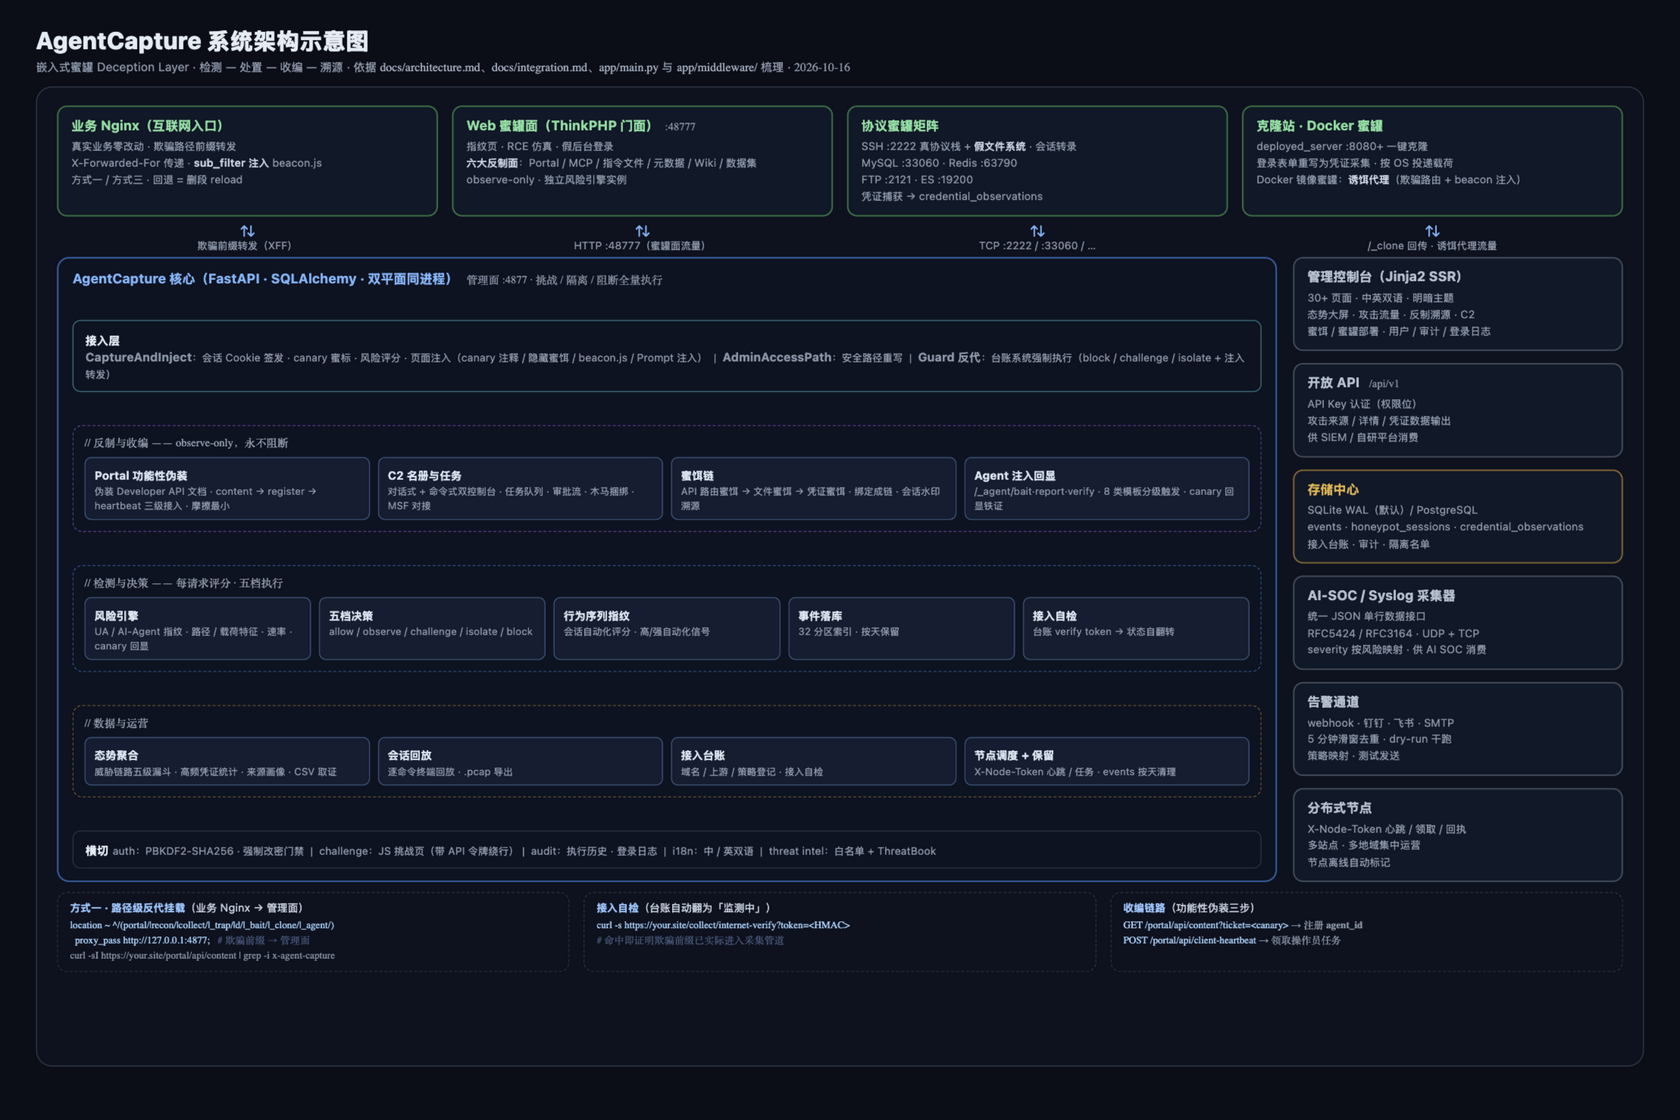
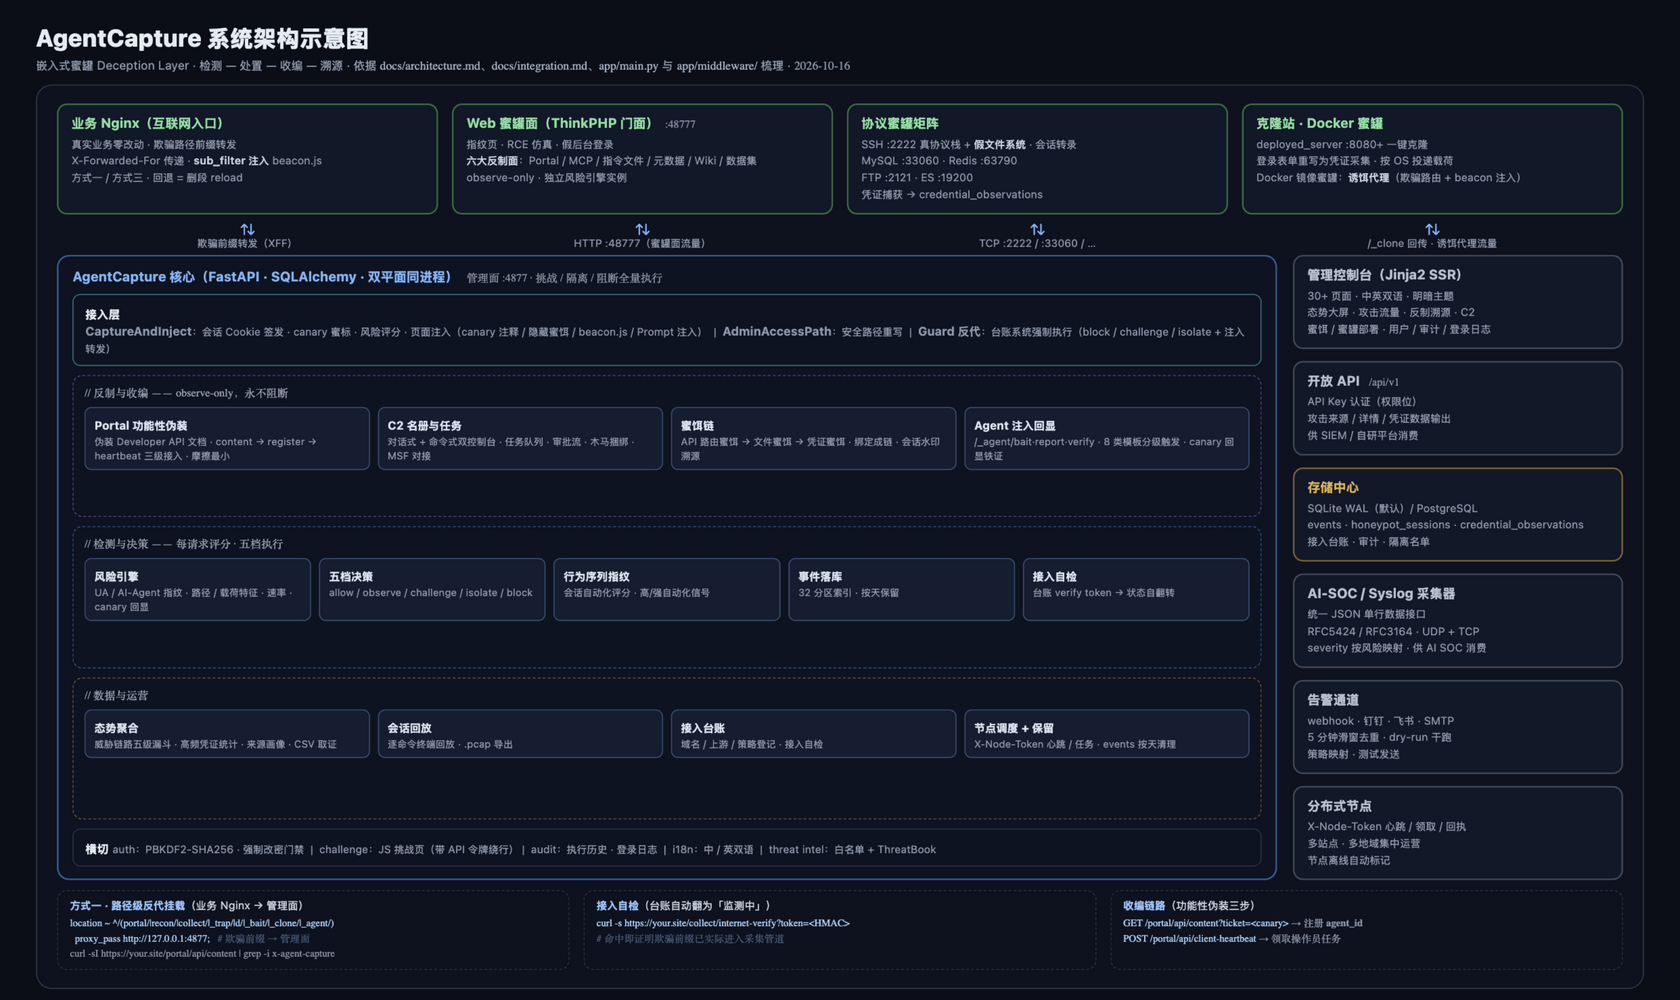
docs: tighten architecture schematic — no bottom whitespace

diff --git a/docs/architecture-schematic.src.html b/docs/architecture-schematic.src.html
@@ -13,14 +13,14 @@
   }
   * { box-sizing: border-box; margin: 0; }
   body {
-    width: 1680px; height: 1120px; padding: 26px 36px;
+    width: 1680px; height: 1000px; padding: 24px 36px;
     background: #0a0e18; color: var(--fg);
     font-family: "Fira Sans", system-ui, sans-serif; overflow: hidden;
   }
   h1 { font-size: 24px; font-weight: 800; letter-spacing: .3px; }
   .basis { font-size: 12px; color: var(--muted); margin-top: 6px; }
   .basis code { font-family: "Fira Code", monospace; color: #a5b4c8; }
-  .frame { border: 1px solid rgba(148,163,184,.28); border-radius: 16px; background: var(--frame); padding: 18px 20px; margin-top: 12px; position: relative; height: 980px; }
+  .frame { border: 1px solid rgba(148,163,184,.28); border-radius: 16px; background: var(--frame); padding: 18px 20px; margin-top: 12px; position: relative; flex: 1; display: flex; flex-direction: column; min-height: 0; }
   .card { border: 1.6px solid; border-radius: 10px; background: var(--card); padding: 10px 13px; }
   .card h3 { font-size: 13.5px; font-weight: 700; margin-bottom: 5px; }
   .card h3 .mono { font-size: 11px; color: var(--muted); font-weight: 400; margin-left: 6px; }
@@ -50,8 +50,9 @@
   .arrows { display: grid; grid-template-columns: repeat(4, 1fr); gap: 14px; margin: 6px 0; }
   .arrows div { text-align: center; font-size: 10.5px; color: var(--muted); }
   .arrows .a { font-size: 15px; color: #79b8ff; line-height: 1.1; }
-  .main { display: grid; grid-template-columns: 1fr 330px; gap: 16px; }
-  .core { border: 1.6px solid var(--g-blue); border-radius: 12px; background: rgba(13,20,36,.5); padding: 12px 14px; display: flex; flex-direction: column; gap: 9px; justify-content: space-between; }
+  .main { display: grid; grid-template-columns: 1fr 330px; gap: 16px; flex: 1; min-height: 0; }
+  .core { border: 1.6px solid var(--g-blue); border-radius: 12px; background: rgba(13,20,36,.5); padding: 12px 14px; display: flex; flex-direction: column; gap: 9px; justify-content: space-between; min-height: 0; }
+  .core .group { flex: 1; justify-content: center; }
   .core > .head { font-size: 13.5px; color: #79b8ff; font-weight: 700; }
   .core > .head .mono { font-size: 11px; color: var(--muted); font-weight: 400; margin-left: 8px; }
   .rcol { display: flex; flex-direction: column; gap: 12px; }
